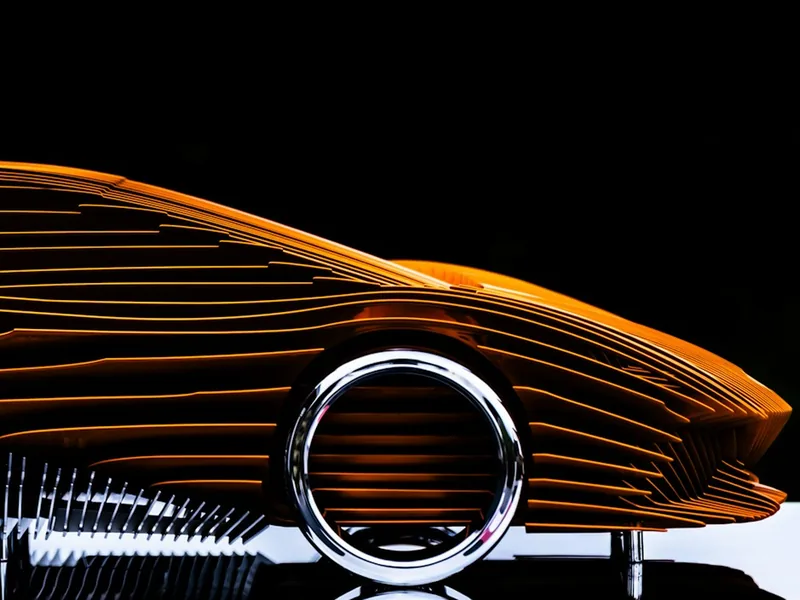
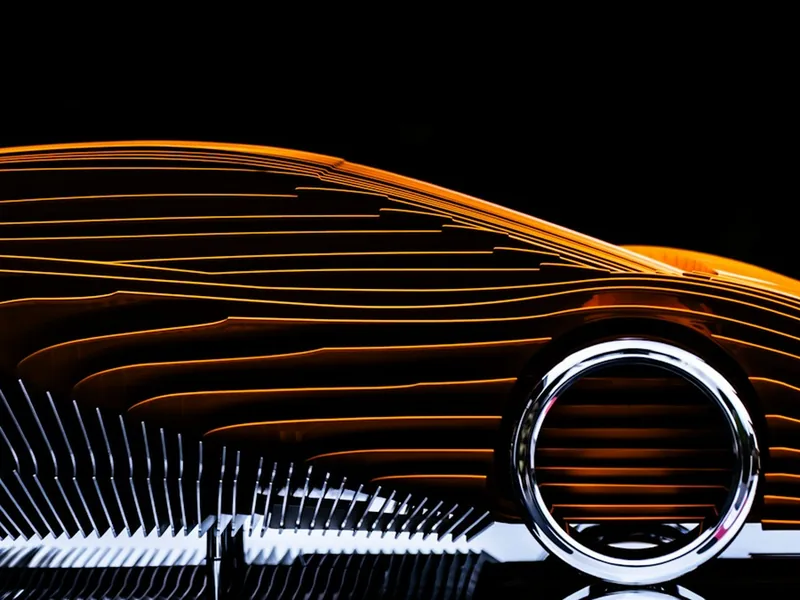
fix(templates): Velora photo polish, clean Skarvane tail light and factory arm, brighter design card
- velora-skarvane: re-inpaint only the bright tail-light lettering so no pale band remains; catalog image velora-1.webp rebuilt
- velora-factory: right robot arm plate filled with the arm colour and soft edges instead of a smeared patch
- velora-design: re-cropped to the middle of the sculpture so the narrow technology card is no longer dark on top; alt updated
- CREDITS: round-3 notes; the three replacement photos stay "(verifikasi)" until the integration lead checks their uploaders

diff --git a/src/templates/velora/photos.ts b/src/templates/velora/photos.ts
@@ -25,7 +25,7 @@ export const VELORA_PHOTOS = definePhotos({
     ['velora-research', 1200, 900, 'Three engineers reviewing data on a laptop next to a test rig'],
     ['velora-factory', 1200, 900, 'Robotic arms welding a car body on an assembly line in a brick factory hall'],
     ['velora-battery', 1200, 900, 'Orange robotic arms handling module trays on an automated production line'],
-    ['velora-design', 1200, 900, 'Front of a car sculpture made of copper-coloured layers on a black background'],
+    ['velora-design', 1200, 900, 'Car sculpture made of copper-coloured layers and silver fins on a black background'],
     ['velora-safety', 1200, 900, 'Close-up of a car headlight with a projector lens'],
     ['velora-news-1', 1200, 800, 'Blue sports coupe leading two cars through a bend on a race track'],
     ['velora-news-2', 1200, 800, 'Home wallbox charging an SUV under a carport with solar panels'],

diff --git a/public/assets/templates/photos/CREDITS.md b/public/assets/templates/photos/CREDITS.md
@@ -440,10 +440,15 @@ Putaran perbaikan (2026-10-27, setelah review): foto resmi pabrikan untuk `velor
 `velora-how`) kini menjadi kartu model `velora-skarvane`; `velora-lumen` (lambang velg, label kabel, tanda di wallbox &
 dinding dihapus), `velora-how` (pelat nama merek di setir dihapus; tulisan model di konsol terpotong), dan `velora-battery`
 memakai foto baru. Plat merek di lengan robot `velora-factory` kini dibuat polos (tanpa noda inpaint), dan `velora-design`
-dipotong ulang tanpa bidang hitam tambahan. Nama perusahaan, model (Aster, Kestrel GT, Skarvane, Lumen, Vanta R), dan
-orang di testimoni fiktif dan tidak berhubungan dengan orang, mobil, atau perusahaan di foto. Fotografer diverifikasi
-sesi integrasi lewat halaman foto Unsplash (lisensi Unsplash, foto gratis); tiga foto baru putaran perbaikan masih
-`(verifikasi)`.
+dipotong ulang tanpa bidang hitam tambahan. Putaran ketiga (2026-10-27): tulisan merek di bawah lampu belakang
+`velora-skarvane` di-inpaint ulang hanya pada huruf terangnya (tanpa pita abu), plat merek lengan robot kanan
+`velora-factory` diisi warna lengan dengan tepi halus, dan `velora-design` dipotong di bagian tengah patung (lapisan
+tembaga, sirip perak, velg) agar kartu sempit tidak gelap di atas. Nama perusahaan, model (Aster, Kestrel GT,
+Skarvane, Lumen, Vanta R), dan orang di testimoni fiktif dan tidak berhubungan dengan orang, mobil, atau perusahaan di
+foto. Fotografer diverifikasi sesi integrasi lewat halaman foto Unsplash (lisensi Unsplash, foto gratis); tiga foto
+baru putaran perbaikan (`velora-lumen` mfqj3ZSs_h0, `velora-how` 8tTFtljZKsQ, `velora-battery` 8gr6bObQLOI) masih
+`(verifikasi)`: nama fotografer dan bahwa akun pengunggahnya bukan akun merek atau pabrikan wajib dicek sesi integrasi
+sebelum deploy.
 
 | File | Isi | Halaman foto | Fotografer |
 | --- | --- | --- | --- |
@@ -461,7 +466,7 @@ sesi integrasi lewat halaman foto Unsplash (lisensi Unsplash, foto gratis); tiga
 | `velora-research-*` | Tiga insinyur memeriksa data di laptop di samping rig uji | https://unsplash.com/photos/bIltCMXIwRE | ThisisEngineering |
 | `velora-factory-*` | Lengan robot mengelas bodi mobil di jalur perakitan pabrik bata | https://unsplash.com/photos/jHZ70nRk7Ns | Lenny Kuhne |
 | `velora-battery-*` | Lengan robot oranye memindahkan baki modul di jalur produksi otomatis | https://unsplash.com/photos/8gr6bObQLOI | (verifikasi) |
-| `velora-design-*` | Bagian depan patung mobil dari lapisan berwarna tembaga di latar hitam | https://unsplash.com/photos/chBJuExPzu0 | Pieter Olievier |
+| `velora-design-*` | Patung mobil dari lapisan berwarna tembaga dan sirip perak di latar hitam | https://unsplash.com/photos/chBJuExPzu0 | Pieter Olievier |
 | `velora-safety-*` | Close-up lampu depan mobil dengan lensa proyektor | https://unsplash.com/photos/O-9ZolZHZvw | Tristan Beischel @Autoily.com |
 | `velora-news-1-*` | Coupe sport biru memimpin dua mobil di tikungan sirkuit | https://unsplash.com/photos/WGZudkq0-rI | Luca Hooijer |
 | `velora-news-2-*` | Wallbox rumah mengisi SUV di carport dengan panel surya | https://unsplash.com/photos/EGKP0FpNSzI | Christian Rebero Twahirwa |
